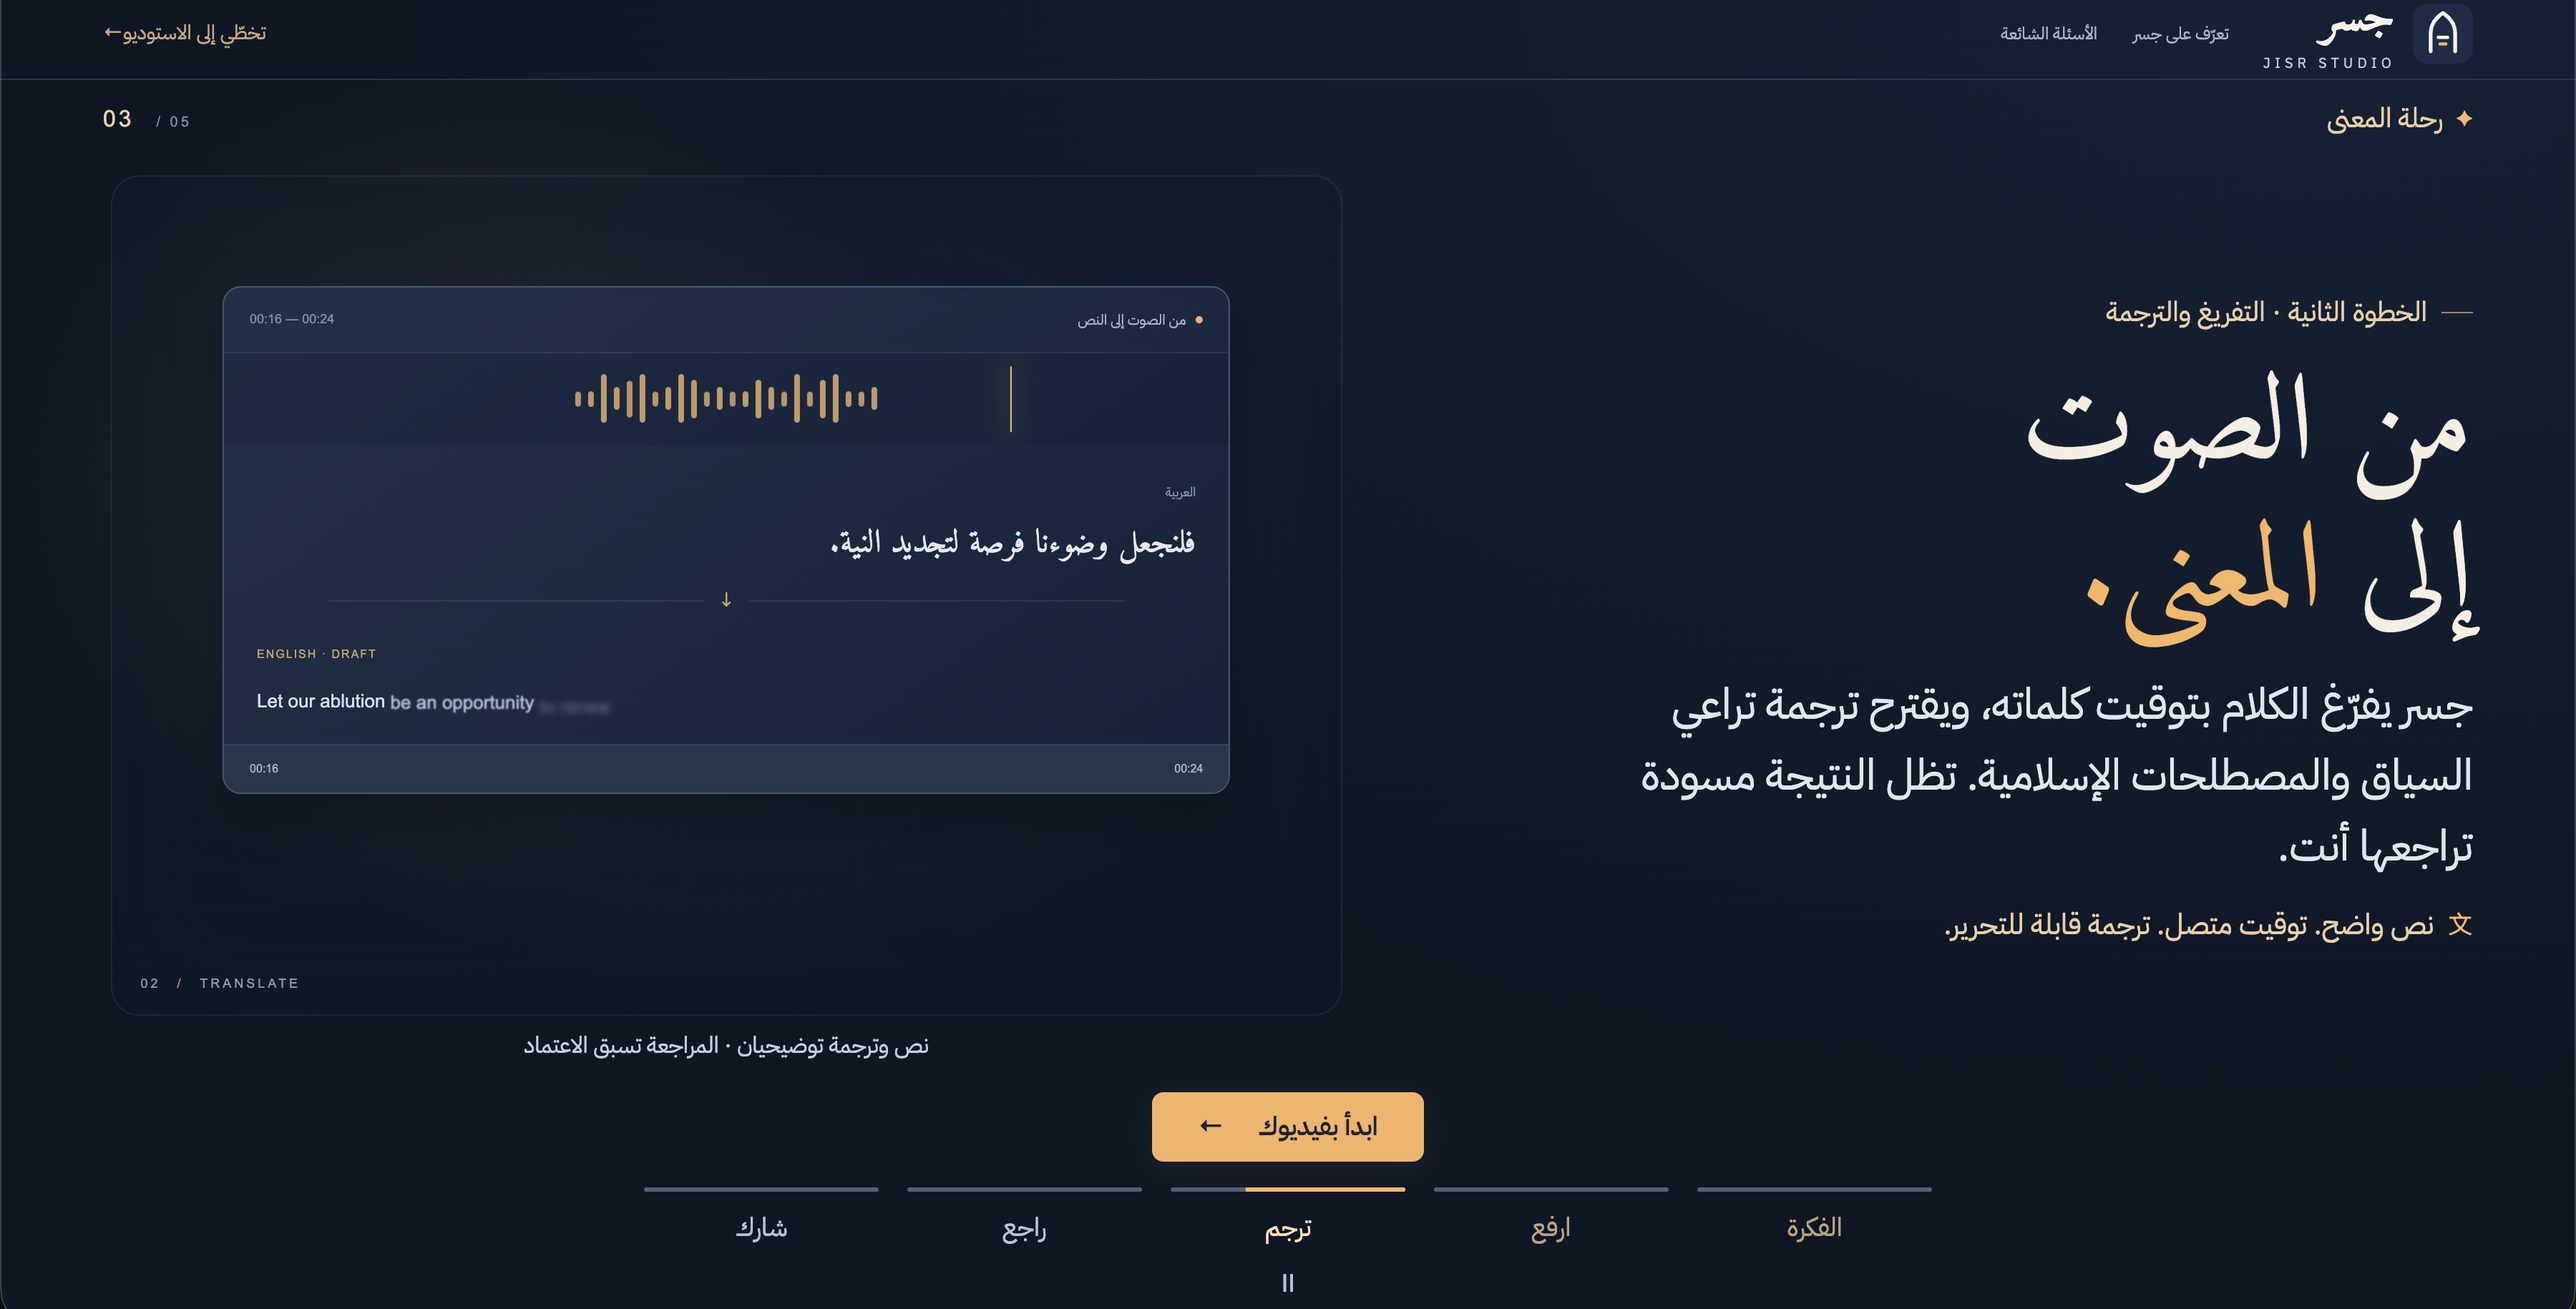
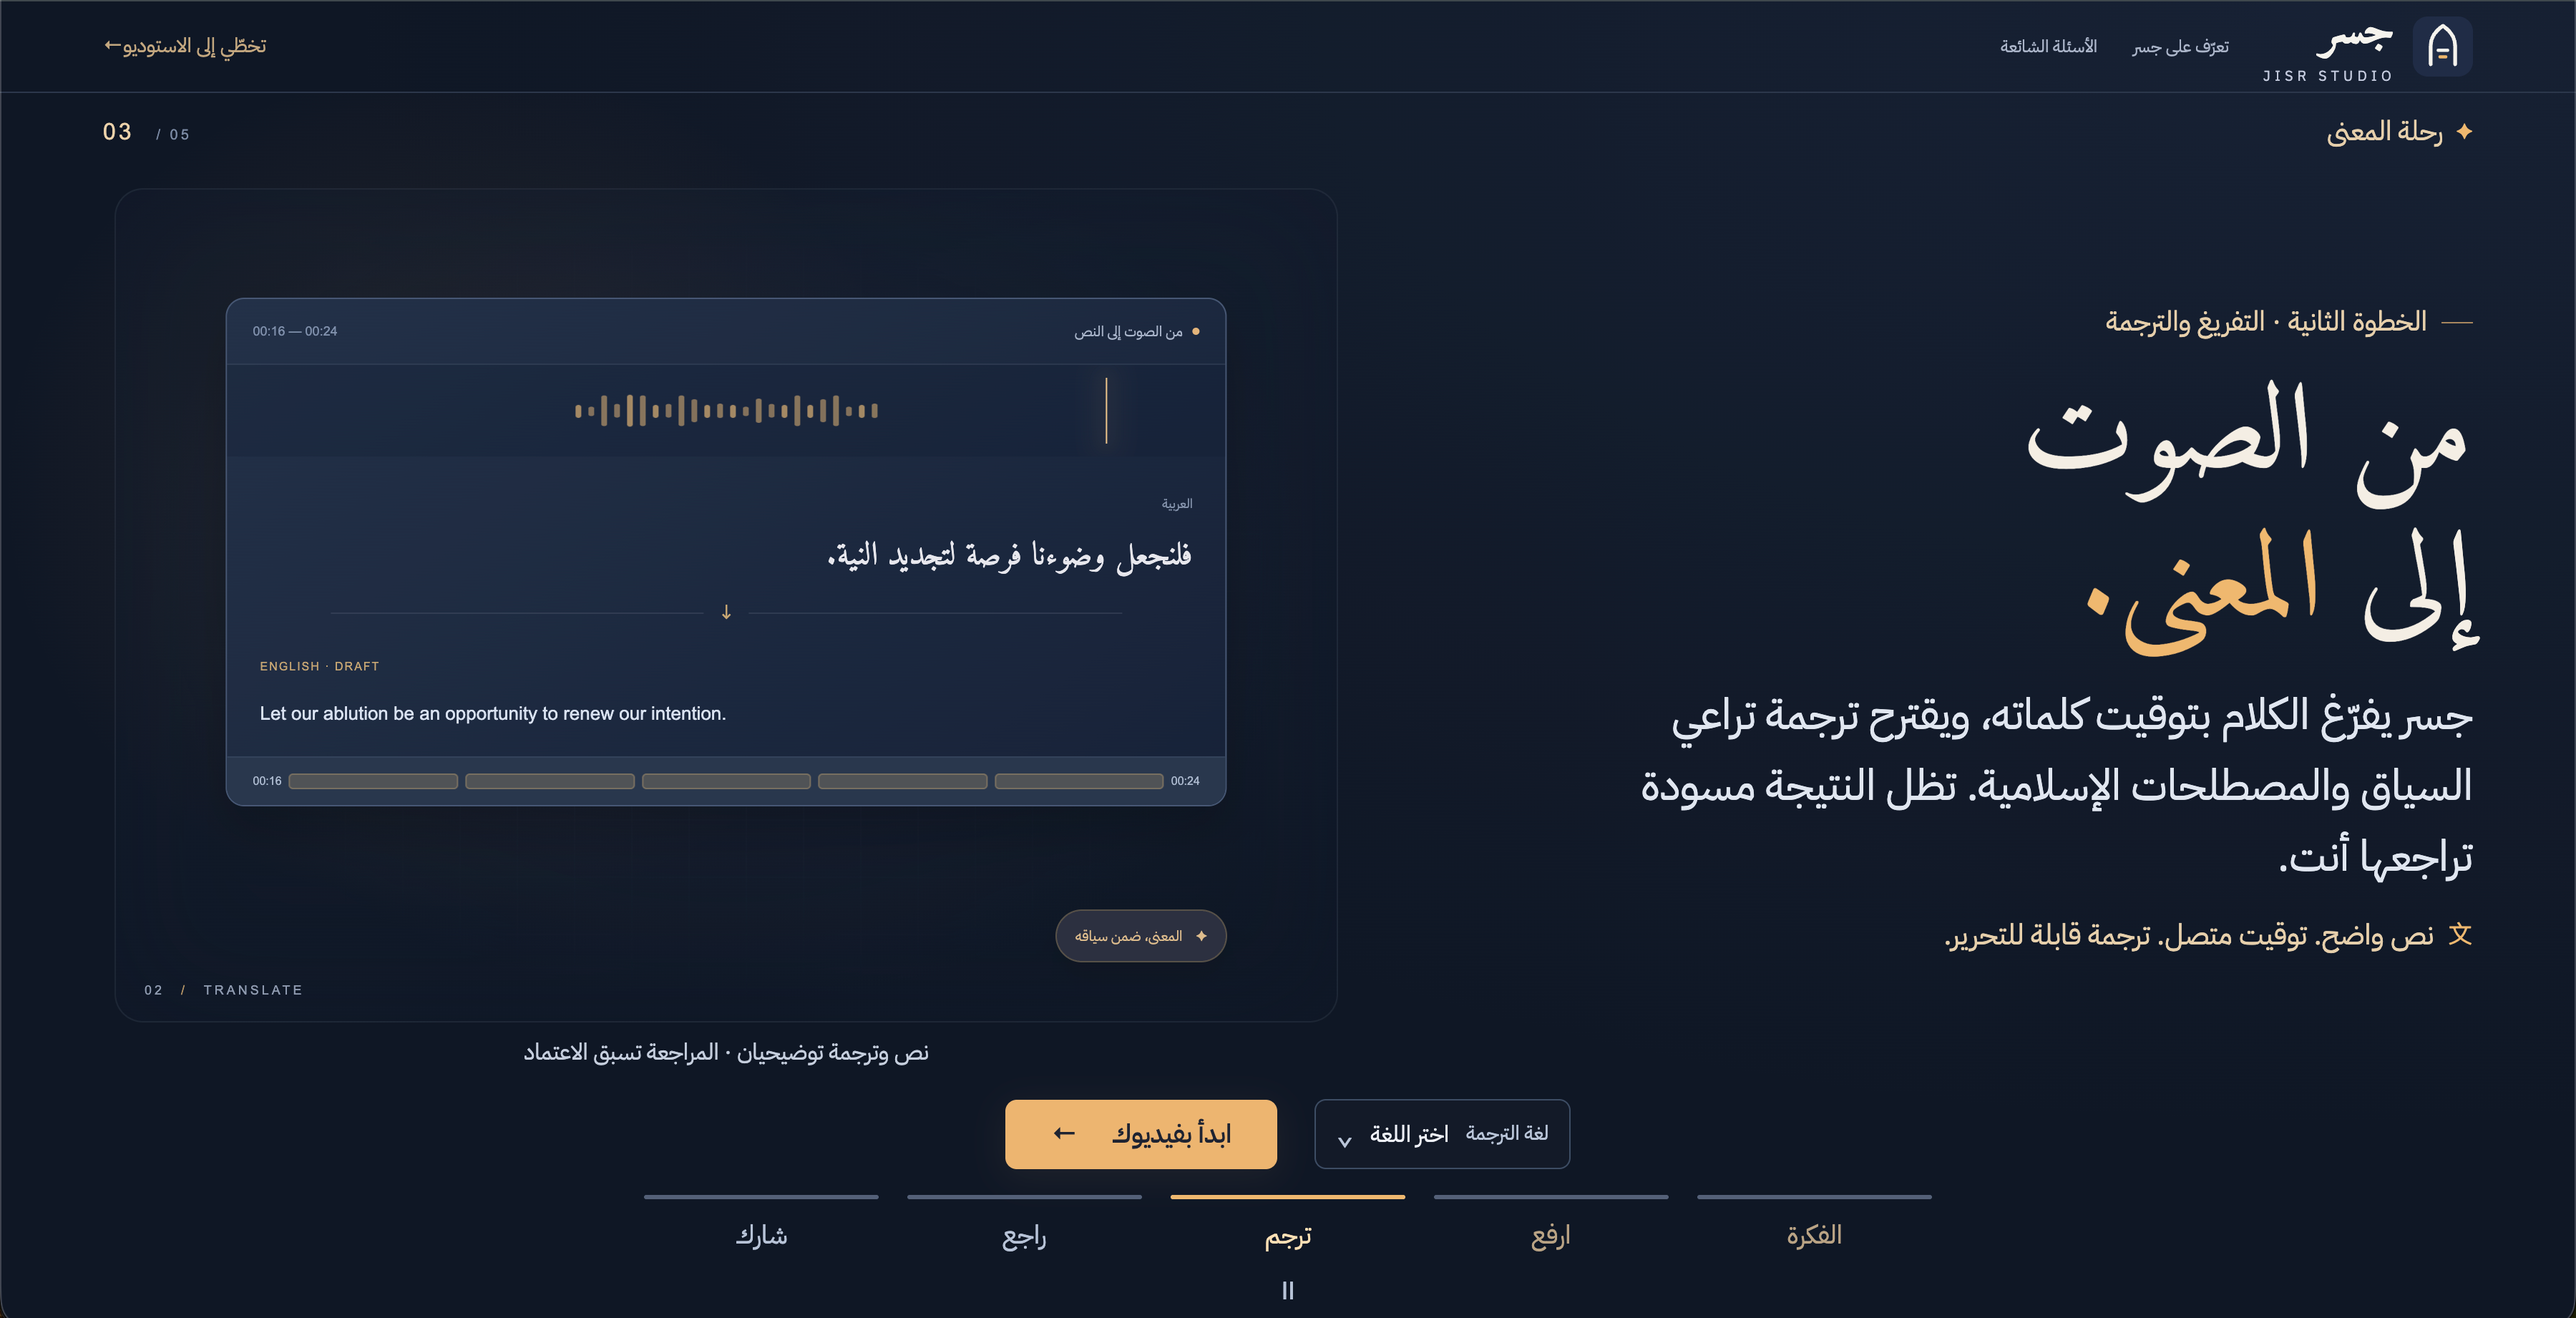
Refresh README screenshots with current language, review, appearance and export interfaces

diff --git a/README.md b/README.md
@@ -50,14 +50,14 @@ For detailed behavior, see the [review guide](docs/review-guide.md), [language a
 
 **Discover the idea → Upload → Transcribe and translate → Review sources → Export.**
 
-The first five screens introduce the workflow through animated, illustrative scenes. The final two show the interactive example editor, where creators can explore the tools before uploading their own video. These screenshots use the English demonstration; uploaded projects use the selected target language. The silent example video and its sample text are separate demonstration assets.
+The first five screens introduce the workflow through animated, illustrative scenes. The next two show the interactive example editor, where creators can explore the tools before uploading their own video. These screenshots use the English demonstration; uploaded projects use the selected target language. The silent example video and its sample text are separate demonstration assets. Additional screenshots show the appearance controls, source panel, and export menu. The export examples include an unreviewed project to show its warnings and preparation feedback; they are not evidence of approved content.
 
 ### 1. Introduction — share Arabic content across languages
 
 The landing page introduces Jisr's purpose: helping Arabic Islamic video content reach audiences in the selected language with visible quotation sources. Its arch motif uses an English example. Visitors choose **لغة الترجمة**, then select **ابدأ بفيديوك** to upload; the five tour scenes advance every eight seconds, with a pause control and support for reduced motion. Upload begins only when the visitor chooses the start button.
 
 <p align="center">
-  <img src="docs/previews/walkthrough/01-introduction.jpeg" alt="Jisr introduction with the Arabic-to-English bridge illustration" width="1000">
+  <img src="docs/previews/walkthrough/01-introduction.png" alt="Jisr introduction with the Arabic-to-English bridge illustration" width="1000">
 </p>
 <p align="center"><sub>Arabic-first landing page · Animated brand illustration · Direct upload action</sub></p>
 
@@ -66,7 +66,7 @@ The landing page introduces Jisr's purpose: helping Arabic Islamic video content
 The upload scene explains the starting point: choose a video and create a workspace without registering an account. It introduces the advertised MP4, MOV, and WebM formats and the 250 MB upload limit. The file card and progress line in this tour are explanatory animation; uploading begins when the visitor chooses a real file.
 
 <p align="center">
-  <img src="docs/previews/walkthrough/02-upload.jpeg" alt="Upload introduction showing a video file card, upload area, and supported formats" width="1000">
+  <img src="docs/previews/walkthrough/02-upload.png" alt="Upload introduction showing a video file card, upload area, and supported formats" width="1000">
 </p>
 <p align="center"><sub>Choose a video · No account required · One connected workspace</sub></p>
 
@@ -84,7 +84,7 @@ The translation scene shows how speech becomes Arabic text and an English draft 
 The review scene connects a spoken Quran excerpt to its reference and corresponding English translation. Creators compare the wording, inspect the source, and confirm the result themselves. Its sample confirmation is interactive within the tour and does not approve a real project. The current editor places **راجعت هذا المقطع** directly on each segment card.
 
 <p align="center">
-  <img src="docs/previews/walkthrough/04-source-review.jpeg" alt="Source-review introduction linking a Quran excerpt to its reference and translation" width="1000">
+  <img src="docs/previews/walkthrough/04-source-review.png" alt="Source-review introduction linking a Quran excerpt to its reference and translation" width="1000">
 </p>
 <p align="center"><sub>Quotation → Reference → Corresponding translation → Human confirmation</sub></p>
 
@@ -93,7 +93,7 @@ The review scene connects a spoken Quran excerpt to its reference and correspond
 The export scene introduces the finished video and subtitle-file outputs. Real projects support MP4 with embedded subtitles, timed SRT, and JSON reference lists. Private drafts retain review warnings; the public viewing link requires the review confirmations. Published source translations and machine drafts remain distinguishable throughout the workflow.
 
 <p align="center">
-  <img src="docs/previews/walkthrough/05-export.jpeg" alt="Export introduction with a subtitled video preview and MP4 and SRT output cards" width="1000">
+  <img src="docs/previews/walkthrough/05-export.png" alt="Export introduction with a subtitled video preview and MP4 and SRT output cards" width="1000">
 </p>
 <p align="center"><sub>Subtitled MP4 · Timed SRT · Reference JSON · Viewing link after review</sub></p>
 
@@ -106,6 +106,21 @@ The export menu makes **MP4 video** the primary choice, with **SRT subtitles** a
 3. **Download the ready file.** The panel shows the filename and file size, followed by a clear download button. After clicking, the user is directed to the browser’s Downloads to follow the transfer; the button remains available to download again.
 
 Failed preparation offers a retry, and an expired download link asks the user to prepare the file again. Animations respect reduced-motion preferences. Project edit-link and deletion controls are grouped in a separate expandable section to keep the download choices easy to scan.
+
+<details>
+<summary>View the export menu and rendering feedback</summary>
+
+<p align="center">
+  <img src="docs/previews/walkthrough/10-export-menu.png" alt="Export menu showing draft-review warnings, the main MP4 action, and SRT and JSON options" width="760">
+</p>
+<p align="center"><sub>MP4 as the primary action · Review warnings · Additional output formats</sub></p>
+
+<p align="center">
+  <img src="docs/previews/walkthrough/11-export-preparation.png" alt="MP4 preparation with an animated activity indicator, export phases, elapsed time, and review warnings" width="760">
+</p>
+<p align="center"><sub>Preparation status · Elapsed time · Review warnings remain visible</sub></p>
+
+</details>
 
 ### 6. The studio — preview, edit, and review together
 
@@ -122,6 +137,24 @@ The detailed view shows the numbered cue timeline and the **المراجعة**, 
   <img src="docs/previews/walkthrough/07-studio-detail.png" alt="Studio detail showing Arabic and English cues, source labels, playback controls, timeline, and review tools" width="1000">
 </p>
 <p align="center"><sub>Linked cues and playback · Source labels · Review, source, and appearance tools</sub></p>
+
+### 7. Subtitle appearance
+
+Adjust the Arabic quotation font, subtitle size, text color, backdrop, and whether Arabic quotations accompany the translation. The target-language font is selected automatically for script coverage. Real-project preview and MP4 use the same rendered subtitle images.
+
+<p align="center">
+  <img src="docs/previews/walkthrough/08-appearance.png" alt="Subtitle appearance panel with Arabic font selection, size, color swatches, backdrop, and bilingual controls" width="760">
+</p>
+<p align="center"><sub>Font and size · Text color · Backdrop · Arabic quotation visibility</sub></p>
+
+### 8. Sources and quotations
+
+The source panel gathers Quran and Hadith references beside their cue times. Open a card to inspect its details and compare the quotation with the source. The screenshot uses the illustrative demo references; actual projects display the references retrieved for their own content.
+
+<p align="center">
+  <img src="docs/previews/walkthrough/09-sources.png" alt="Source panel showing timed Quran and Hadith example cards and reference-detail actions" width="760">
+</p>
+<p align="center"><sub>Timed quotation cards · Reference identity · Source details</sub></p>
 
 ## 🎨 Design system
 
